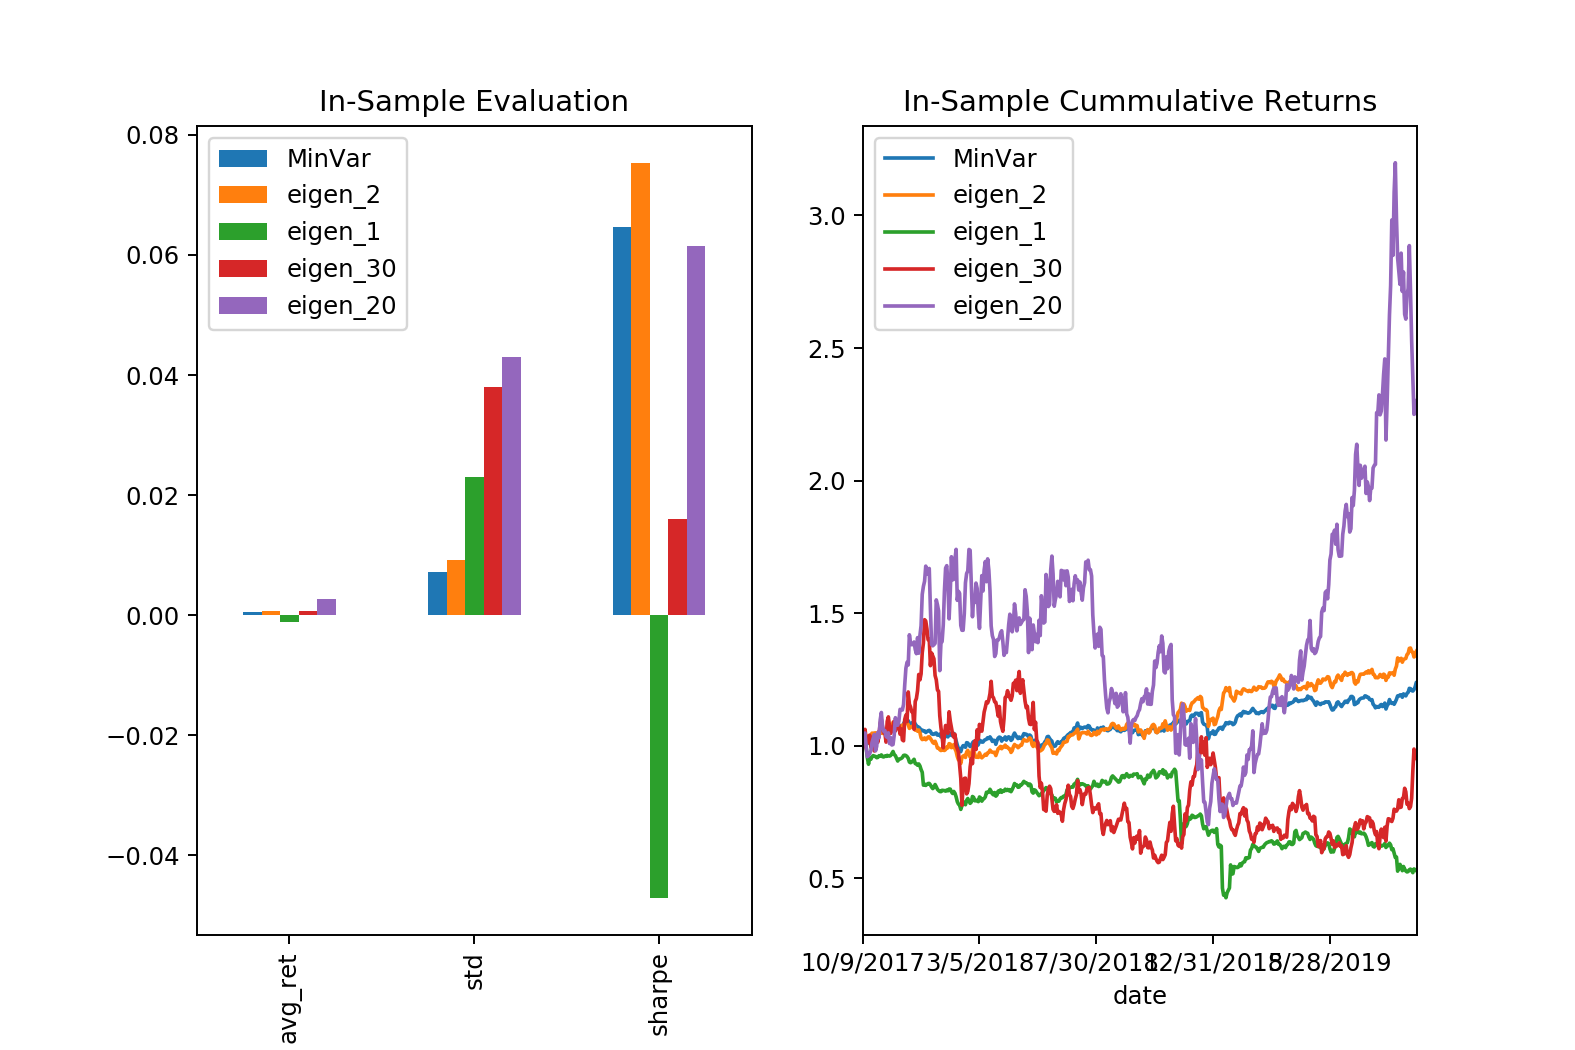
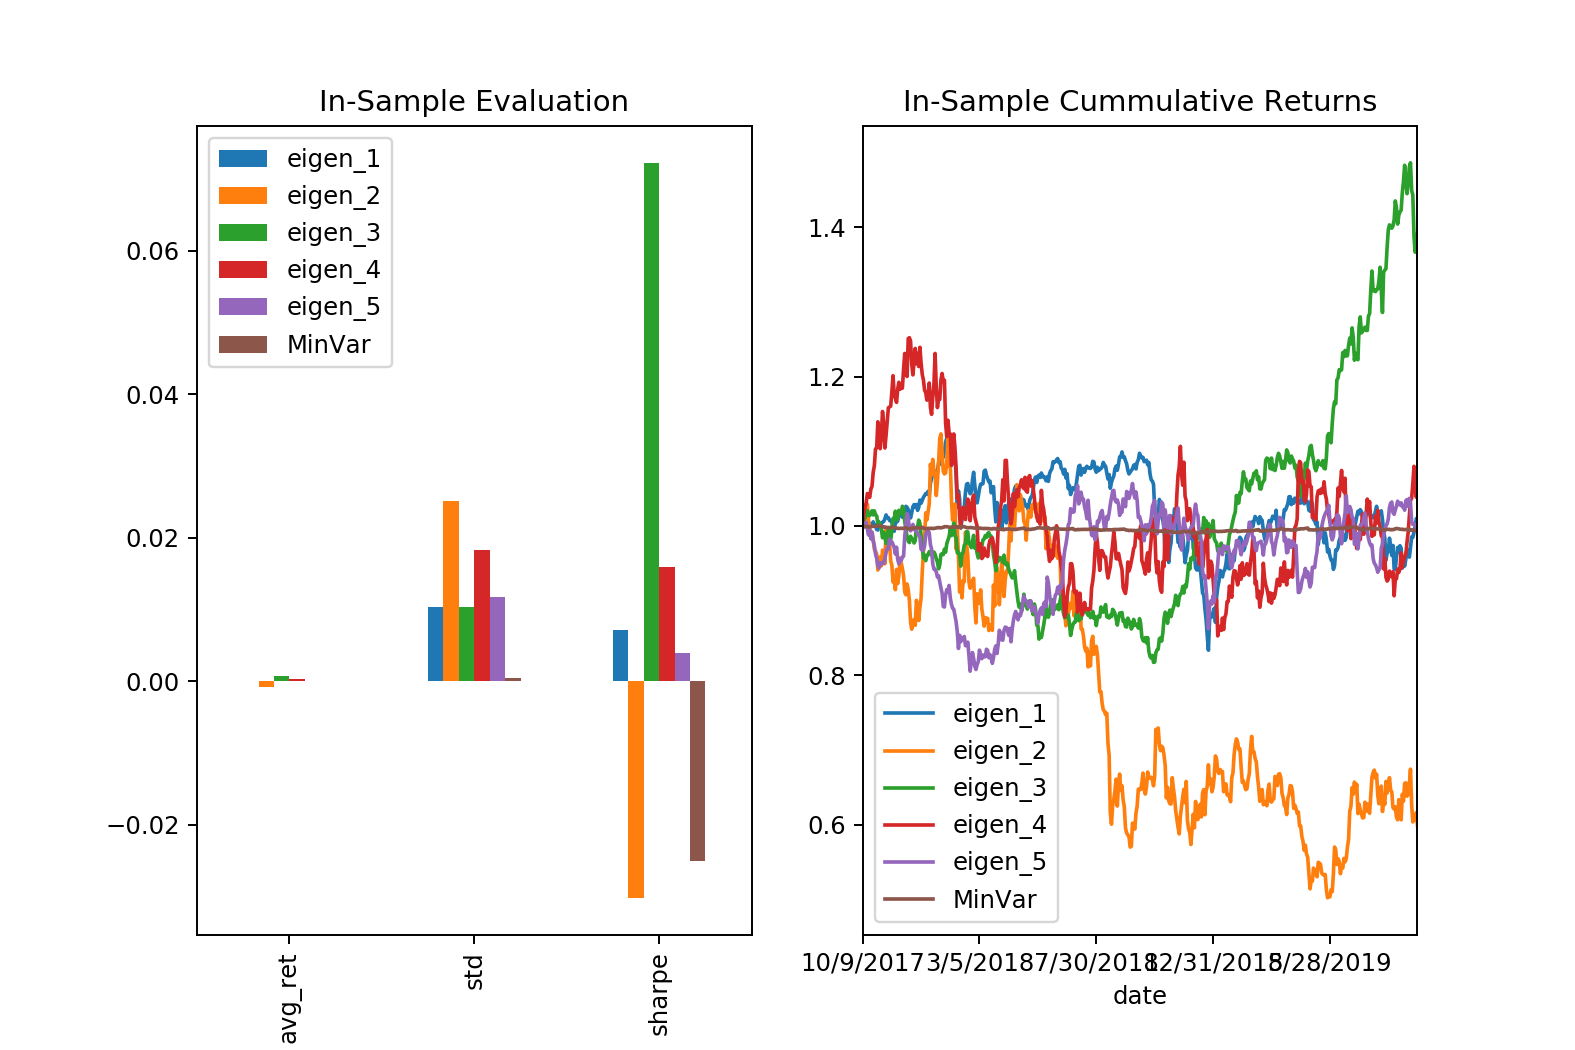
third post & edits

diff --git a/_posts/2020-06-03-qf_volatility_p2.md b/_posts/2020-06-03-qf_volatility_p2.md
@@ -232,18 +232,228 @@ def ioSampleSplit(df,inSample_pct=0.75):
     return (inSample,df.reindex([i for i in df.index if i not in inSample.index]))
 ```
 
----
-# Mean-Variance Optimization
-Given a selected M amount of securities, we obtain our Symmetric *M x M* Covariance Matrix ($$\boldsymbol{C_{\sigma}}$$), calculated from an *N x M* $$RET$$ returns table of *N* returns data of such M securities (again, details in [first QF post](https://jp-quant.github.io/qf_intro/ "first QF post") ), a portfolio's volatility ($$\sigma_p$$) is calculated as:
 
->$$\sigma_p = \sqrt{w^\top \cdot \boldsymbol{C_{\sigma}} \cdot w}$$
+Lastly, for daring purposes, as we will obtain results that are very much interesting & sensible, we are going to work with the **Others** sector, representing **all different funds & indexes**, comprising the entire "market" as much as we can, with components as independent they can. Observe the description of such sector of securities:
 
-Thus, our objective is to **find an allocation weight** $$w = \begin{vmatrix} w_1\\ w_2\\ \vdots\\ w_M \end{vmatrix}$$ that would *minimize* $$\sigma_p$$, or simply put will result in the **smallest possible** $$\sigma_p$$, such that $$-1 \leq w_{i}\leq 1$$ and $$\sum_{1}^{M}w_i = 1$$
 
-We're just going to select our M securities as the *Utilities* sector for our demonstrative work, since it has the least amount to encompasses such sector. In addition, we split our full $$RET$$ data into 75% in-sample & 25% out-sample, letting the default variable **RET** as in-sample & **RET_outSample** as, of course, the out-sample data. Subsequent optimization steps in solving for the desired allocations weight $$w$$ will be performed on in-sample data:
 
 ```python
-RET,RET_outSample = ioSampleSplit(_RET_[sectors["Utilities"]])
+universe_info.reindex(sectors["Others"]).sort_index()
+```
+
+
+<div>
+<style scoped>
+    .dataframe tbody tr th:only-of-type {
+        vertical-align: middle;
+    }
+
+    .dataframe tbody tr th {
+        vertical-align: top;
+    }
+
+    .dataframe thead th {
+        text-align: right;
+    }
+</style>
+<table border="1" class="dataframe">
+  <thead>
+    <tr style="text-align: right;">
+      <th></th>
+      <th>name</th>
+      <th>sector</th>
+    </tr>
+    <tr>
+      <th>symbol</th>
+      <th></th>
+      <th></th>
+    </tr>
+  </thead>
+  <tbody>
+    <tr>
+      <th>DIA</th>
+      <td>SPDR DJIA TRUST</td>
+      <td>Others</td>
+    </tr>
+    <tr>
+      <th>EEM</th>
+      <td>ISHARES MSCI EMERGING MARKET</td>
+      <td>Others</td>
+    </tr>
+    <tr>
+      <th>EFA</th>
+      <td>ISHARES MSCI EAFE ETF</td>
+      <td>Others</td>
+    </tr>
+    <tr>
+      <th>EWJ</th>
+      <td>ISHARES MSCI JAPAN ETF</td>
+      <td>Others</td>
+    </tr>
+    <tr>
+      <th>FEZ</th>
+      <td>SPDR EURO STOXX 50 ETF</td>
+      <td>Others</td>
+    </tr>
+    <tr>
+      <th>FXI</th>
+      <td>ISHARES CHINA LARGE-CAP ETF</td>
+      <td>Others</td>
+    </tr>
+    <tr>
+      <th>GDX</th>
+      <td>VANECK GOLD MINERS</td>
+      <td>Others</td>
+    </tr>
+    <tr>
+      <th>GLD</th>
+      <td>SPDR GOLD SHARES</td>
+      <td>Others</td>
+    </tr>
+    <tr>
+      <th>HYG</th>
+      <td>ISHARES IBOXX HIGH YLD CORP</td>
+      <td>Others</td>
+    </tr>
+    <tr>
+      <th>IBB</th>
+      <td>ISHARES NASDAQ BIOTECHNOLOGY</td>
+      <td>Others</td>
+    </tr>
+    <tr>
+      <th>IEF</th>
+      <td>ISHARES 7-10 YEAR TREASURY B</td>
+      <td>Others</td>
+    </tr>
+    <tr>
+      <th>IWM</th>
+      <td>ISHARES RUSSELL 2000 ETF</td>
+      <td>Others</td>
+    </tr>
+    <tr>
+      <th>IYR</th>
+      <td>ISHARES US REAL ESTATE ETF</td>
+      <td>Others</td>
+    </tr>
+    <tr>
+      <th>MDY</th>
+      <td>SPDR S&amp;P MIDCAP 400 ETF TRST</td>
+      <td>Others</td>
+    </tr>
+    <tr>
+      <th>PFF</th>
+      <td>ISHARES PREFERRED &amp; INCOME S</td>
+      <td>Others</td>
+    </tr>
+    <tr>
+      <th>QQQ</th>
+      <td>INVESCO QQQ TRUST SERIES 1</td>
+      <td>Others</td>
+    </tr>
+    <tr>
+      <th>SHY</th>
+      <td>ISHARES 1-3 YEAR TREASURY BO</td>
+      <td>Others</td>
+    </tr>
+    <tr>
+      <th>SMH</th>
+      <td>VANECK SEMICONDUCTOR</td>
+      <td>Others</td>
+    </tr>
+    <tr>
+      <th>SPY</th>
+      <td>SPDR S&amp;P 500 ETF TRUST</td>
+      <td>Others</td>
+    </tr>
+    <tr>
+      <th>TLT</th>
+      <td>ISHARES 20+ YEAR TREASURY BO</td>
+      <td>Others</td>
+    </tr>
+    <tr>
+      <th>VNQ</th>
+      <td>VANGUARD REAL ESTATE ETF</td>
+      <td>Others</td>
+    </tr>
+    <tr>
+      <th>XBI</th>
+      <td>SPDR S&amp;P BIOTECH ETF</td>
+      <td>Others</td>
+    </tr>
+    <tr>
+      <th>XHB</th>
+      <td>SPDR S&amp;P HOMEBUILDERS ETF</td>
+      <td>Others</td>
+    </tr>
+    <tr>
+      <th>XLB</th>
+      <td>MATERIALS SELECT SECTOR SPDR</td>
+      <td>Others</td>
+    </tr>
+    <tr>
+      <th>XLE</th>
+      <td>ENERGY SELECT SECTOR SPDR</td>
+      <td>Others</td>
+    </tr>
+    <tr>
+      <th>XLF</th>
+      <td>FINANCIAL SELECT SECTOR SPDR</td>
+      <td>Others</td>
+    </tr>
+    <tr>
+      <th>XLI</th>
+      <td>INDUSTRIAL SELECT SECT SPDR</td>
+      <td>Others</td>
+    </tr>
+    <tr>
+      <th>XLK</th>
+      <td>TECHNOLOGY SELECT SECT SPDR</td>
+      <td>Others</td>
+    </tr>
+    <tr>
+      <th>XLP</th>
+      <td>CONSUMER STAPLES SPDR</td>
+      <td>Others</td>
+    </tr>
+    <tr>
+      <th>XLU</th>
+      <td>UTILITIES SELECT SECTOR SPDR</td>
+      <td>Others</td>
+    </tr>
+    <tr>
+      <th>XLV</th>
+      <td>HEALTH CARE SELECT SECTOR</td>
+      <td>Others</td>
+    </tr>
+    <tr>
+      <th>XLY</th>
+      <td>CONSUMER DISCRETIONARY SELT</td>
+      <td>Others</td>
+    </tr>
+    <tr>
+      <th>XME</th>
+      <td>SPDR S&amp;P METALS &amp; MINING ETF</td>
+      <td>Others</td>
+    </tr>
+    <tr>
+      <th>XOP</th>
+      <td>SPDR S&amp;P OIL &amp; GAS EXP &amp; PR</td>
+      <td>Others</td>
+    </tr>
+    <tr>
+      <th>XRT</th>
+      <td>SPDR S&amp;P RETAIL ETF</td>
+      <td>Others</td>
+    </tr>
+  </tbody>
+</table>
+</div>
+
+
+In addition, we split our full $$RET$$ data into 75% in-sample & 25% out-sample, letting the default variable **RET** as in-sample & **RET_outSample** as, of course, the out-sample data. Subsequent optimization steps in solving for the desired allocations weight $$w$$ will be performed on in-sample data:
+
+```python
+RET,RET_outSample = ioSampleSplit(_RET_[sectors["Others"]])
 ```
 
 ```python
@@ -253,7 +463,7 @@ RET.shape, RET_outSample.shape
 
 
 
-    ((476, 37), (159, 37))
+    ((476, 35), (159, 35))
 
 
 Like before, we will use pandas covariance function to calculated its sample covariance matrix $$\boldsymbol{C_{\sigma}}$$:
@@ -262,6 +472,15 @@ Like before, we will use pandas covariance function to calculated its sample cov
 ```python
 RET.cov()
 ```
+
+
+---
+# Mean-Variance Optimization
+Given a selected M amount of securities, we obtain our Symmetric *M x M* Covariance Matrix ($$\boldsymbol{C_{\sigma}}$$), calculated from an *N x M* $$RET$$ returns table of *N* returns data of such M securities (again, details in [first QF post](https://jp-quant.github.io/qf_intro/ "first QF post") ), a portfolio's volatility ($$\sigma_p$$) is calculated as:
+
+>$$\sigma_p = \sqrt{w^\top \cdot \boldsymbol{C_{\sigma}} \cdot w}$$
+
+Thus, our objective is to **find an allocation weight** $$w = \begin{vmatrix} w_1\\ w_2\\ \vdots\\ w_M \end{vmatrix}$$ that would *minimize* $$\sigma_p$$, or simply put will result in the **smallest possible** $$\sigma_p$$, such that $$-1 \leq w_{i}\leq 1$$ and $$\sum_{1}^{M}w_i = 1$$
 
 ---
 ## 1. Risk Minimization
@@ -369,7 +588,7 @@ allWeights["Computational"].plot(kind="bar",ax=ax_c)
 <img src="https://jp-quant.github.io/images/vol_2/a_vs_c_w.png">
 
 
-#### *Conclusions & Remarks*
+### *Conclusions & Remarks*
 - The discrepancies between our analytical & computational approaches are very small. I theorize that this is due to either when approximating the inverse covariance matrix when solving analytically, or computational errors. I will add an explanation once I have empirically identified the problem.
 - It is **much faster to use the analytical method** to compute our Minimum Variance Portfolio, especially as M increases to which requires more combinations for iterations when utilizing computational approach.
 - We tend to opt for computation when we don't have the concrete mathematics to solve for the optimization problem, or that the constraint is neither linear or quadratic, or even convex (harder to find global minimum/maximum solution).
@@ -377,7 +596,7 @@ allWeights["Computational"].plot(kind="bar",ax=ax_c)
 	> For example, instead of $$\sigma_p$$, maybe we can change it to $$\boldsymbol{I_p}$$, and perform maximization instead of minimization. Perhaps I will demonstrate this as well later, although it is fairly easy to change up the code (check out [**Scipy Optimization Documentation**](https://docs.scipy.org/doc/scipy/reference/tutorial/optimize.html "Scipy Optimization Documentation"))
 
 ---
-### 2. Eigen Portfolios
+## 2. Eigen Portfolios
 Recall our brief mention in the first post, eigen portfolios are simply the eigen vectors "scaled" by the summation of its components. We need to address the following **important** fundamental concepts & empirical findings:
 
 - The idea of an eigen portfolio is simply an **allocation vector** that **aligns itself in the exact direction of the eigen vector**.
@@ -390,48 +609,66 @@ Recall our brief mention in the first post, eigen portfolios are simply the eige
 
 - It is *empirically* proven, through other research works, that $$w_{e_1}$$, being the eigen portfolio associated with the eigen vector with the **largest eigen value**, is the **market portfolio**, given the universe of M securities comprising the market.
 
-Modifying our function written to extract the eigen pairs in the [**previous post**](https://jp-quant.github.io/qf_volatility_p1/ " previous post"), below function scaled the eigen vectors with their weights summation into eigen portfolios and return the portfolios' weights:
+Modifying our function written to extract the eigen pairs in the [**previous post**](https://jp-quant.github.io/qf_volatility_p1/ "previous post"), below function scaled the eigen vectors with their weights summation into eigen portfolios and return the portfolios' weights along with everything else:
 
 ```python
-def eigen_w(_ret_):
+def EIGEN(_ret_):
     _pca = PCA().fit(_ret_)
     eVecs = _pca.components_
     eVals = _pca.explained_variance_
     _eigenNames = ["eigen_"+str(e+1) for e in range(len(eVals))]
     _eigenValues = pd.Series(eVals,index=_eigenNames,name="eigenValues")
-    _eigenVectors = pd.DataFrame(eVecs.T,index=ret.columns,columns=_eigenNames)
-    return pd.DataFrame({e:(_eigenVectors[e]/_eigenVectors[e].sum()) for e in _eigenVectors})
+    _eigenVectors = pd.DataFrame(eVecs.T,index=_ret_.columns,columns=_eigenNames)
+    _eigenPortfolios = pd.DataFrame({e:(_eigenVectors[e]/_eigenVectors[e].sum()) for e in _eigenVectors})
+    return {"lambdas":_eigenValues,"vectors":_eigenVectors,"portfolios":_eigenPortfolios}
 ```
 
-In constructing our *allWeights* table of different allocations, to which in this case being all the eigen portfolios' weights, we will go ahead and **add the Minimum Variance Portfolio Weights** into it as well:
+In constructing our *allWeights* table of different allocations weights, to which in this case being all the eigen portfolios, we will go ahead and **add the Minimum Variance Portfolio** into it as well:
 
 ```python
-eigenWeights = eigen_w(RET)
-allWeights = pd.concat([eigenWeights,minVar(RET.cov()).reindex(eigenWeights.index)],1)
+_eigen_ = EIGEN(RET)
+eigenWeights = _eigen_["portfolios"]
+allWeights = pd.concat([eigenWeights,minVar(RET.cov(),True).reindex(eigenWeights.index)],1)
 ```
 
-Perform evaluations of the weights on **in-sample** data & plot the results of the **Top 5 with the LEAST Volatility**, we obtain:
+Briefly observe the first top 10 eigen values' **explained variances**:
+
 
 ```python
+(_eigen_["lambdas"].sort_values(ascending=False)/_eigen_["lambdas"].sum()).head(10)
+```
+
+
+
+
+    eigen_1     0.599924
+    eigen_2     0.076345
+    eigen_3     0.065515
+    eigen_4     0.044836
+    eigen_5     0.043632
+    eigen_6     0.028974
+    eigen_7     0.022040
+    eigen_8     0.018703
+    eigen_9     0.014721
+    eigen_10    0.012076
+    Name: eigenValues, dtype: float64
+
+
+Now that we have extracted the weights from **in-sample** data, we proceed on performing evaluations for **BOTH in-sample & out-sample**. Observe plot results for the evaluations of the **Top 5 Eigen Portfolios + Minimum Variance Portfolio**:
+
+```python
+to_plot = ["eigen_1","eigen_2","eigen_3","eigen_4","eigen_5","MinVar"]
+
+#----| In-Sample: RET
 bulk_evals = evaluate_bulk_w(RET,allWeights)
-to_plot = list(bulk_evals["metrics"].sort_values("std").index[:5])
-
 f = plt.figure(figsize=(9,6))
 ax_m = f.add_subplot(121,title="In-Sample Evaluation")
 ax_cr = f.add_subplot(122,title="In-Sample Cummulative Returns")
 bulk_evals["metrics"].T[to_plot].plot(kind="bar",ax=ax_m)
 bulk_evals["cum_ret"][to_plot].plot(ax=ax_cr)
-```
 
-<img src="https://jp-quant.github.io/images/vol_2/mv_vs_e_1.png">
-
-
-Now, if we evaluate the weights, extracted from in-sample, on **out-sample** data, again plotting the **Top 5 with the LEAST Volatility**:
-
-```python
+#---| Out-Sample: RET_outSample
 bulk_evals = evaluate_bulk_w(RET_outSample,allWeights)
-to_plot = list(bulk_evals["metrics"].sort_values("std").index[:5])
-
 f = plt.figure(figsize=(9,6))
 ax_m = f.add_subplot(121,title="Out-Sample Evaluation")
 ax_cr = f.add_subplot(122,title="Out-Sample Cummulative Returns")
@@ -439,10 +676,20 @@ bulk_evals["metrics"].T[to_plot].plot(kind="bar",ax=ax_m)
 bulk_evals["cum_ret"][to_plot].plot(ax=ax_cr)
 ```
 
+<img src="https://jp-quant.github.io/images/vol_2/mv_vs_e_1.png">
 <img src="https://jp-quant.github.io/images/vol_2/mv_vs_e_2.png">
 
+Recall that we are working with the sector **Others**, containing **35 securities** representing **a diverse pool of different funds & indexes**, comprising the entire "market" as much as we can, with components as independent they can, ranging from different asset classes (stocks, commodities, T-bills, etc) as well as domestic & foreign securities (refer to the table above in our Preparation section for information).
 
-[ANALYSIS IN-PROGRESS]
+The interesting thing to point out is the **out-sample result**, the timeframe to which when the latest *COVID-19 market crash* occured whereas only the **eigen_3** and **MinVar** portfolios exhibit positive performance, with **eigen_3** also having the highest sharpe ratio for **both** samples.
+
+If we plot out the weights for **eigen_1, eigen_2 and MinVar**, we obtain:
+<img src="https://jp-quant.github.io/images/vol_2/e_123.png">
+
+Notice how the **eigen_1** weights **have the majority of positive allocations in indexes affiliated with stocks!**. This confirms our statement above on it being the **market portfolio**. Notice how for *GLD & GDX*, being commodities, specifically gold, hedged out in weights, while indexes of foreign securities like *EWJ* have very little weights in comparison to the others; lastly, all our negative allocations, or short positions, are in Tresury Bills (IEF, SHY, TLT), all statistically exhibit negative correlation with the market!
+
+[MORE ANALYSIS CONTENT IN PROGRESS]
+
 
 ---
 # Random Matrix Theory
